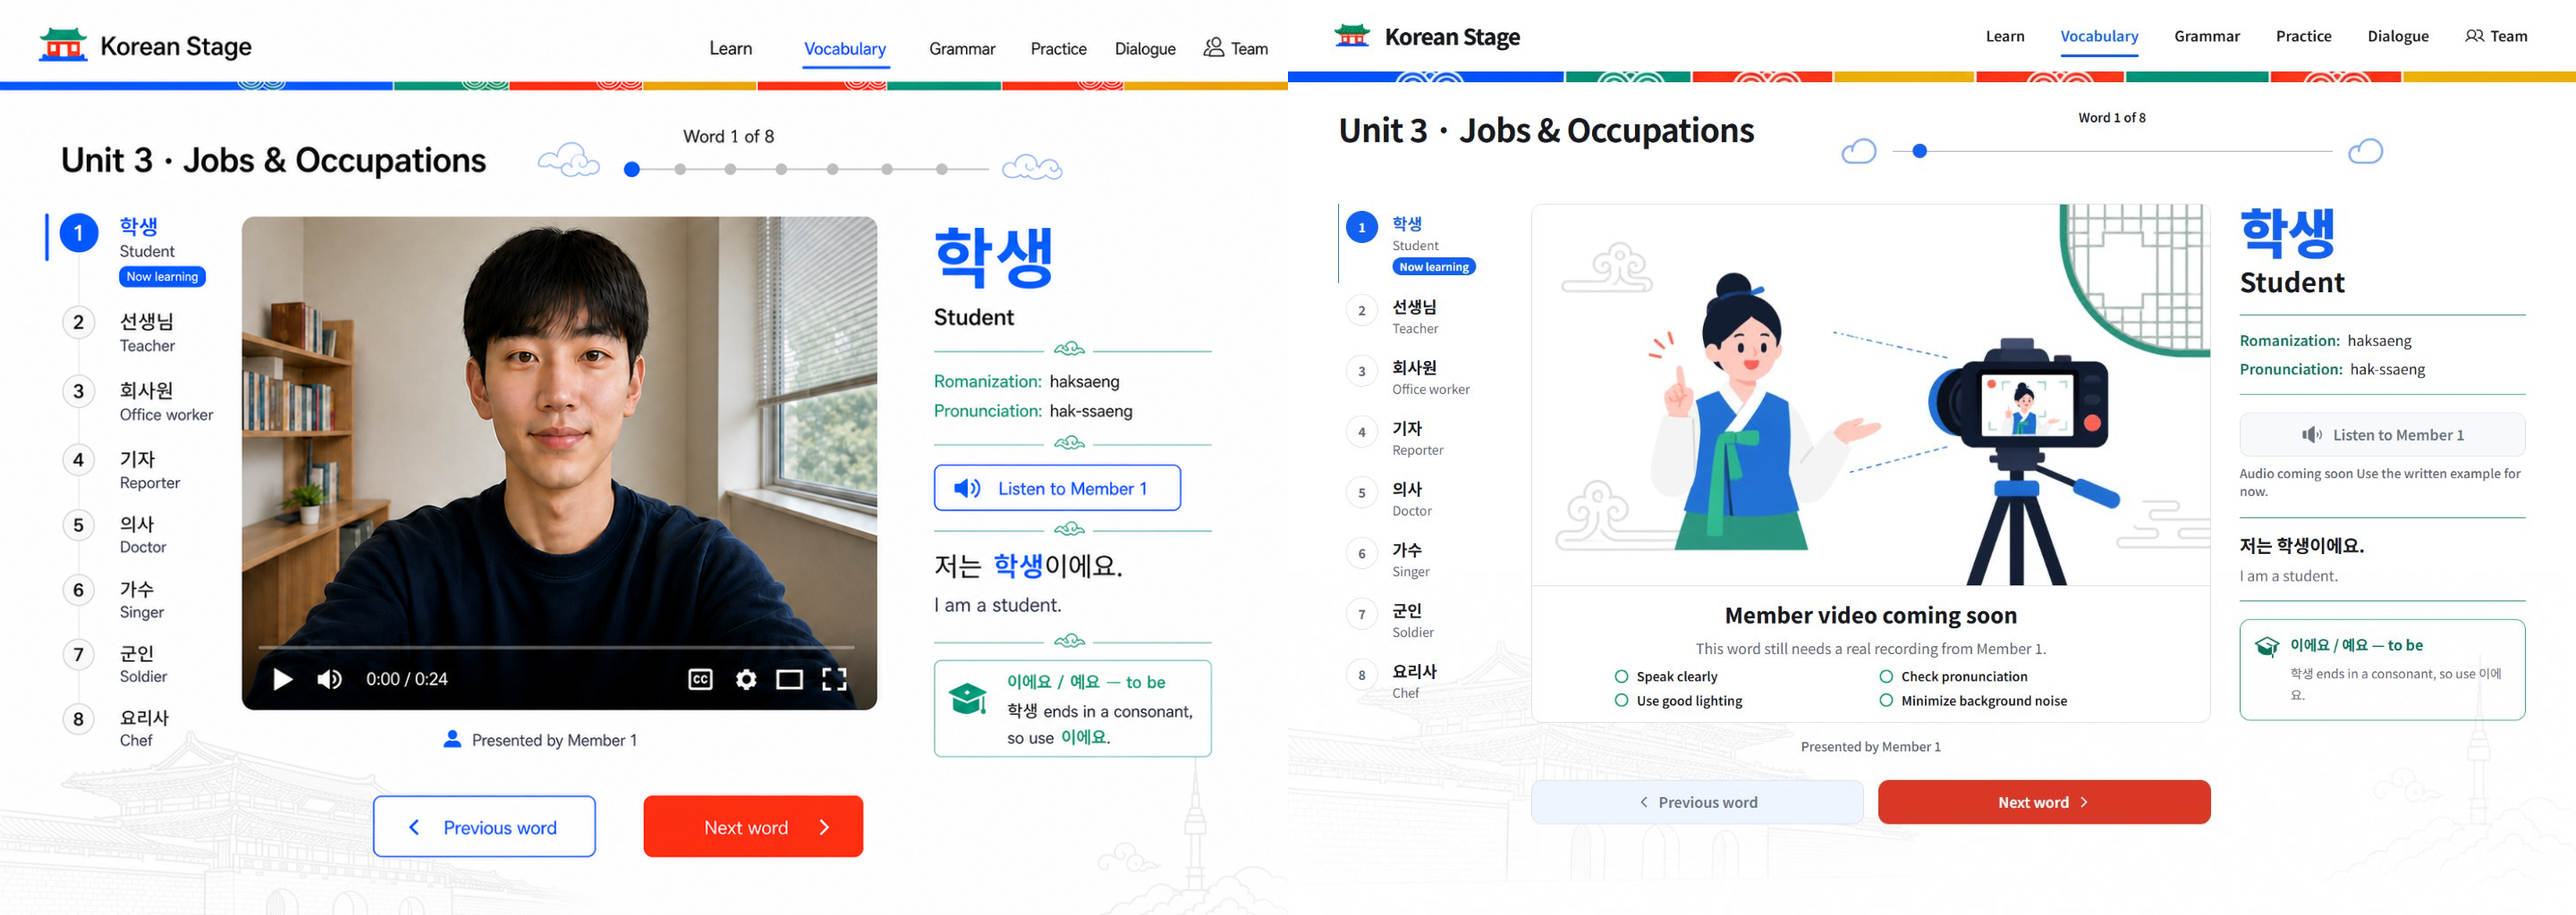
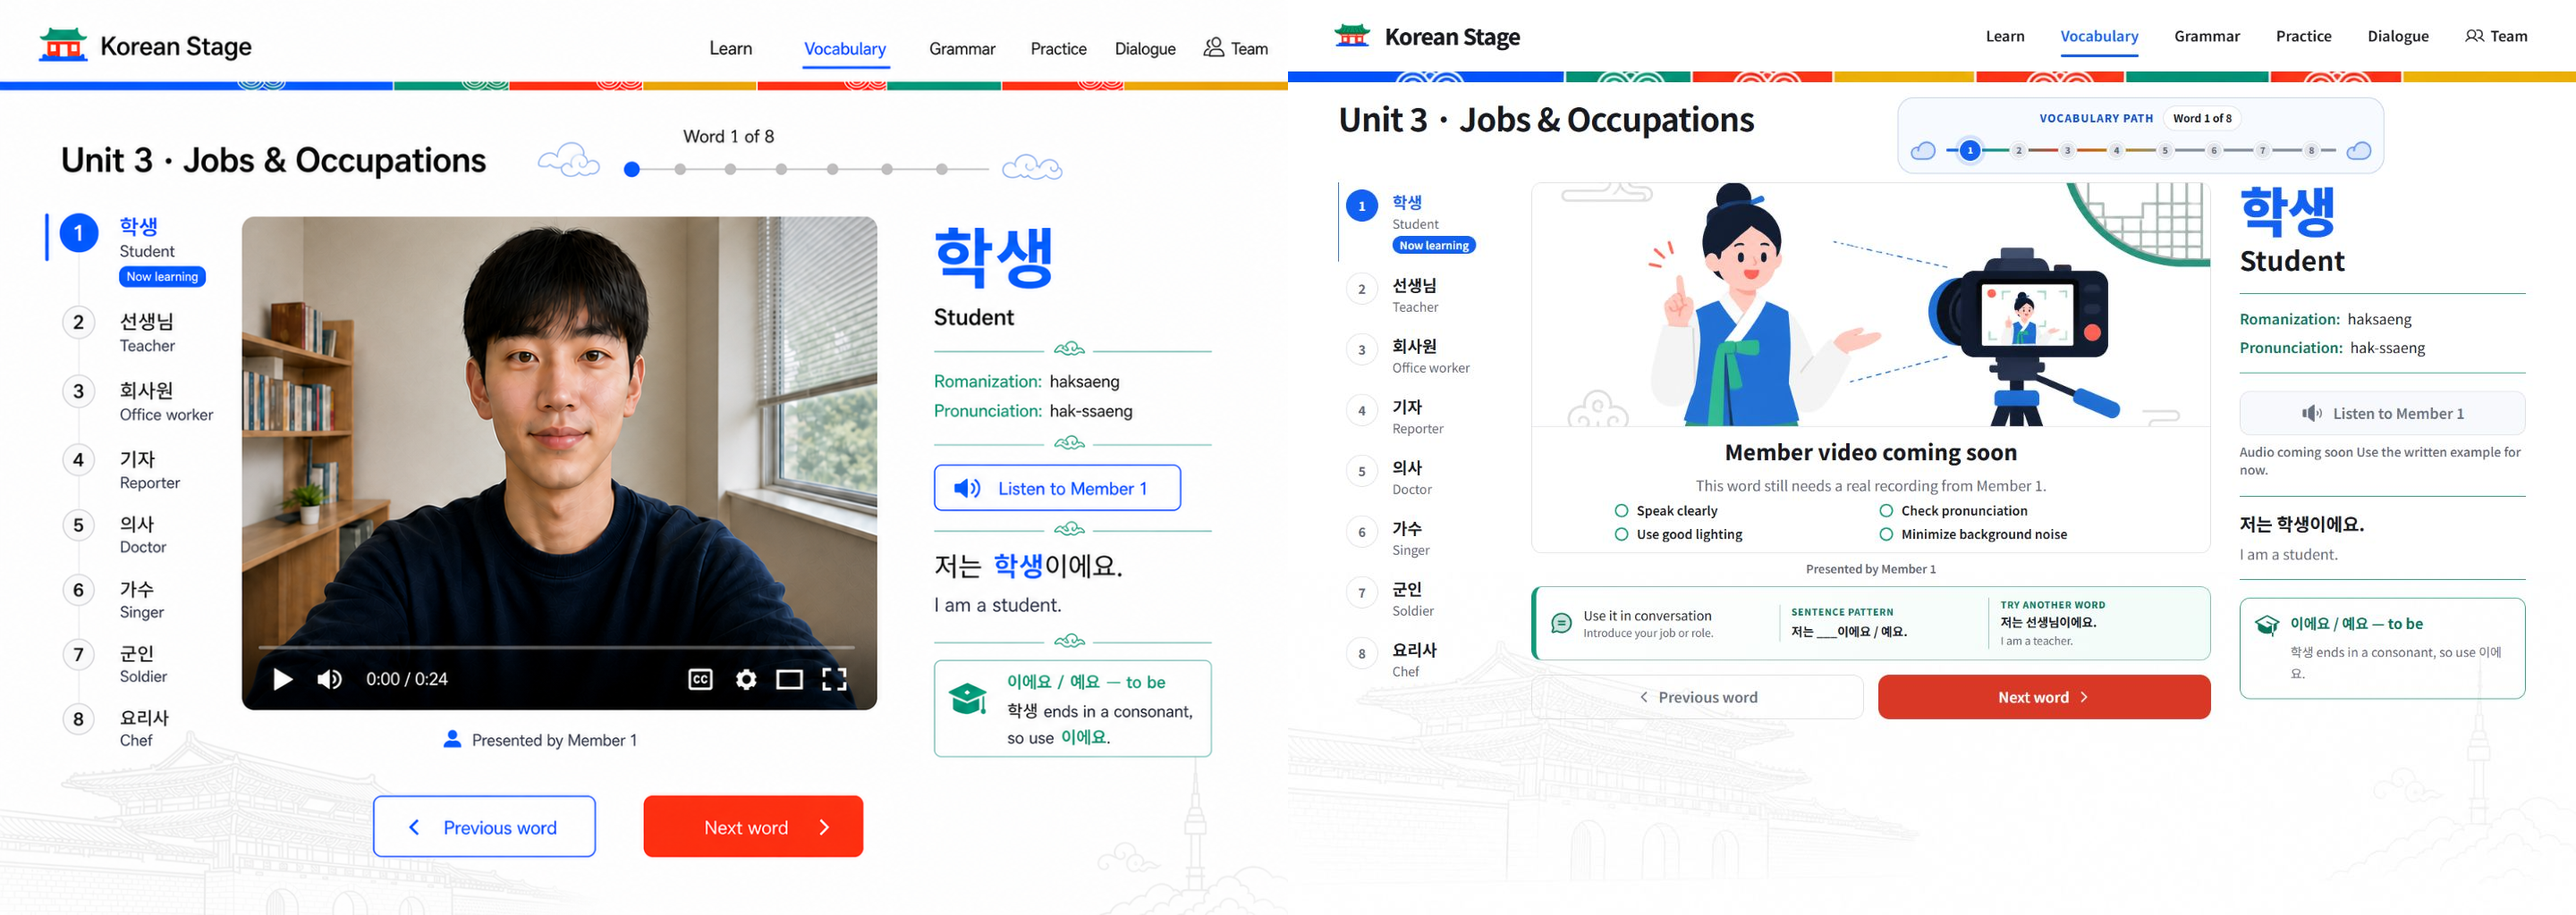
feat: compact vocabulary lesson above the fold

diff --git a/app/src/styles.css b/app/src/styles.css
@@ -286,7 +286,35 @@ body {
 
 .stage-learning-progress {
   width: 100%;
-  max-width: 38rem;
+  max-width: 34rem;
+  border: 1px solid color-mix(in srgb, var(--stage-cobalt) 18%, var(--stage-border));
+  border-radius: 1.15rem;
+  background: color-mix(in srgb, var(--stage-cobalt-soft) 48%, var(--stage-white));
+  padding: 0.55rem 0.8rem 0.65rem;
+}
+
+.stage-learning-progress__label {
+  display: flex;
+  align-items: center;
+  justify-content: center;
+  gap: 0.65rem;
+  margin: 0;
+  font-size: 0.75rem;
+}
+
+.stage-learning-progress__label span {
+  color: var(--color-stage-cobalt-strong);
+  font-weight: 800;
+  letter-spacing: 0.08em;
+  text-transform: uppercase;
+}
+
+.stage-learning-progress__label strong {
+  border: 1px solid var(--stage-border);
+  border-radius: 999px;
+  background: var(--stage-white);
+  color: var(--stage-charcoal);
+  padding: 0.25rem 0.65rem;
 }
 
 .stage-learning-grid {
@@ -297,13 +325,13 @@ body {
   display: grid;
   grid-template-columns: auto minmax(0, 1fr) auto;
   align-items: center;
-  gap: 1rem;
+  gap: 0.65rem;
   margin-top: 0.45rem;
 }
 
 .word-progress-cloud {
   color: var(--stage-cobalt);
-  opacity: 0.5;
+  opacity: 0.62;
 }
 
 .word-progress-markers {
@@ -320,8 +348,9 @@ body {
   position: absolute;
   right: 0;
   left: 0;
-  height: 1px;
-  background: var(--stage-border-strong);
+  height: 3px;
+  border-radius: 999px;
+  background: linear-gradient(90deg, var(--stage-cobalt), var(--stage-jade), var(--stage-vermilion), var(--stage-yellow), var(--stage-border-strong) 58%);
   content: "";
 }
 
@@ -333,20 +362,93 @@ body {
 }
 
 .word-progress-markers span {
-  width: 0.75rem;
-  height: 0.75rem;
+  display: grid;
+  width: 1.25rem;
+  height: 1.25rem;
+  place-items: center;
+  border: 2px solid var(--stage-white);
   border-radius: 50%;
-  background: var(--stage-disabled);
+  background: var(--color-stage-disabled);
+  color: var(--stage-muted);
+  font-size: 0.625rem;
+  font-weight: 800;
+  outline: 1px solid var(--stage-border);
 }
 
 .word-progress-markers .is-complete span {
   background: var(--stage-jade);
+  color: var(--stage-white);
 }
 
 .word-progress-markers .is-active span {
-  width: 1rem;
-  height: 1rem;
+  width: 1.65rem;
+  height: 1.65rem;
   background: var(--stage-cobalt);
+  color: var(--stage-white);
+  outline: 4px solid color-mix(in srgb, var(--stage-cobalt) 16%, transparent);
+}
+
+.stage-media-presenter {
+  margin: 0.45rem 0 0;
+  color: var(--stage-muted);
+  font-size: 0.8rem;
+  font-weight: 600;
+  text-align: center;
+}
+
+.conversation-use-card {
+  display: grid;
+  gap: 0.75rem;
+  margin-top: 0.65rem;
+  border: 1px solid color-mix(in srgb, var(--stage-jade) 52%, var(--stage-border));
+  border-left: 0.35rem solid var(--stage-jade);
+  border-radius: var(--stage-radius);
+  background: linear-gradient(105deg, var(--stage-white), color-mix(in srgb, var(--color-stage-jade-soft) 72%, var(--stage-white)));
+  padding: 0.75rem 0.9rem;
+}
+
+.conversation-use-card__intro {
+  display: flex;
+  align-items: center;
+  gap: 0.65rem;
+  color: var(--color-stage-jade-strong);
+}
+
+.conversation-use-card h2,
+.conversation-use-card p {
+  margin: 0;
+}
+
+.conversation-use-card h2 {
+  color: var(--stage-charcoal);
+  font-size: 0.9rem;
+}
+
+.conversation-use-card p,
+.conversation-use-card small {
+  color: var(--stage-muted);
+  font-size: 0.75rem;
+}
+
+.conversation-use-card__pattern,
+.conversation-use-card__swap {
+  display: grid;
+  gap: 0.12rem;
+}
+
+.conversation-use-card__pattern span,
+.conversation-use-card__swap span {
+  color: var(--color-stage-jade-strong);
+  font-size: 0.65rem;
+  font-weight: 800;
+  letter-spacing: 0.06em;
+  text-transform: uppercase;
+}
+
+.conversation-use-card__pattern strong,
+.conversation-use-card__swap strong {
+  color: var(--stage-charcoal);
+  font-size: 0.85rem;
 }
 
 .member-video--stage video,
@@ -359,11 +461,11 @@ body {
 }
 
 .member-video--stage .coming-soon-copy {
-  padding-block: 0.85rem;
+  padding-block: 0.6rem;
 }
 
 .member-video--stage .coming-soon-copy ul {
-  margin-top: 0.55rem;
+  margin-top: 0.35rem;
 }
 
 .member-video--stage figcaption {
@@ -478,6 +580,26 @@ body {
   .stage-learning-grid {
     grid-template-columns: 11.5rem minmax(0, 1fr) 20rem;
     gap: 2rem;
+  }
+
+  .member-video--stage video,
+  .member-video--stage > div[role="alert"],
+  .member-video--stage .coming-soon-artwork-frame {
+    height: clamp(14rem, 29vh, 17rem);
+    min-height: 0;
+    aspect-ratio: auto;
+  }
+
+  .conversation-use-card {
+    grid-template-columns: 1.05fr 0.95fr 1fr;
+    align-items: center;
+  }
+
+  .conversation-use-card__pattern,
+  .conversation-use-card__swap {
+    min-height: 2.6rem;
+    border-left: 1px solid color-mix(in srgb, var(--stage-jade) 35%, var(--stage-border));
+    padding-left: 0.8rem;
   }
 }
 

diff --git a/app/src/components/VocabularyJourney.tsx b/app/src/components/VocabularyJourney.tsx
@@ -1,4 +1,4 @@
-import { CaretLeft, CaretRight, Cloud, GraduationCap } from '@phosphor-icons/react'
+import { CaretLeft, CaretRight, ChatCircleText, Cloud, GraduationCap } from '@phosphor-icons/react'
 import { useState } from 'react'
 import { course, courseUnits } from '../content/course'
 import type { VocabularyItem } from '../content/types'
@@ -47,6 +47,7 @@ export function VocabularyJourney({ items, initialItemId, progressPath }: Vocabu
   }
 
   const item = items[Math.min(activeIndex, items.length - 1)]
+  const replacementItem = items[(activeIndex + 1) % items.length]
   const member = course.members.find((candidate) => candidate.id === item.ownerId)
   const memberName = member?.name ?? 'Course member'
   const tip = grammarTip(item)
@@ -115,7 +116,7 @@ export function VocabularyJourney({ items, initialItemId, progressPath }: Vocabu
   )
 
   const media = (
-    <div>
+    <div className="stage-media-stack">
       <MemberVideo
         className="member-video--stage"
         key={`${item.id}:${item.video.kind}:${item.video.src ?? 'missing'}`}
@@ -123,7 +124,25 @@ export function VocabularyJourney({ items, initialItemId, progressPath }: Vocabu
         source={item.video}
         transcript={`${item.koreanExample} ${item.englishExample}`}
       />
-      <p className="mt-4 text-center text-sm font-medium text-stage-muted">Presented by {memberName}</p>
+      <p className="stage-media-presenter">Presented by {memberName}</p>
+      <section aria-label="Use it in conversation" className="conversation-use-card">
+        <div className="conversation-use-card__intro">
+          <ChatCircleText aria-hidden="true" size={28} weight="duotone" />
+          <div>
+            <h2>Use it in conversation</h2>
+            <p>Introduce your job or role.</p>
+          </div>
+        </div>
+        <div className="conversation-use-card__pattern">
+          <span>Sentence pattern</span>
+          <strong>저는 ___이에요 / 예요.</strong>
+        </div>
+        <div className="conversation-use-card__swap">
+          <span>Try another word</span>
+          <strong>{replacementItem.koreanExample}</strong>
+          <small>{replacementItem.englishExample}</small>
+        </div>
+      </section>
     </div>
   )
 
@@ -194,7 +213,7 @@ export function VocabularyJourney({ items, initialItemId, progressPath }: Vocabu
 
   const progressMarkers = (
     <div className="word-progress-line">
-      <Cloud aria-hidden="true" className="word-progress-cloud" size={42} weight="regular" />
+      <Cloud aria-hidden="true" className="word-progress-cloud" size={30} weight="duotone" />
       <ol aria-label="Word progress markers" className="word-progress-markers">
         {items.map((word, index) => (
           <li
@@ -203,11 +222,11 @@ export function VocabularyJourney({ items, initialItemId, progressPath }: Vocabu
             className={index === activeIndex ? 'is-active' : index < activeIndex ? 'is-complete' : undefined}
             key={word.id}
           >
-            <span aria-hidden="true" />
+            <span aria-hidden="true">{index + 1}</span>
           </li>
         ))}
       </ol>
-      <Cloud aria-hidden="true" className="word-progress-cloud" size={42} weight="regular" />
+      <Cloud aria-hidden="true" className="word-progress-cloud" size={30} weight="duotone" />
     </div>
   )
 
@@ -218,6 +237,7 @@ export function VocabularyJourney({ items, initialItemId, progressPath }: Vocabu
       heading={`Unit ${unitNumber} · ${unitTitle}`}
       media={media}
       progress={`Word ${activeIndex + 1} of ${items.length}`}
+      progressLabel="Vocabulary path"
       progressMarkers={progressMarkers}
       rail={rail}
     />

diff --git a/app/src/components/LearningShell.tsx b/app/src/components/LearningShell.tsx
@@ -3,6 +3,7 @@ import type { ReactNode } from 'react'
 type LearningShellProps = {
   heading: string
   progress: string
+  progressLabel?: string
   progressMarkers?: ReactNode
   rail: ReactNode
   media: ReactNode
@@ -10,13 +11,16 @@ type LearningShellProps = {
   controls: ReactNode
 }
 
-export function LearningShell({ heading, progress, progressMarkers, rail, media, details, controls }: LearningShellProps) {
+export function LearningShell({ heading, progress, progressLabel = 'Lesson progress', progressMarkers, rail, media, details, controls }: LearningShellProps) {
   return (
-    <section className="stage-learning-shell mx-auto w-full max-w-[1440px] px-5 py-8 sm:px-8 lg:px-14 lg:py-8">
-      <div className="stage-learning-header mb-8 grid gap-4">
+    <section className="stage-learning-shell mx-auto w-full max-w-[1440px] px-5 py-8 sm:px-8 lg:px-14 lg:py-5">
+      <div className="stage-learning-header mb-5 grid gap-4">
         <h1 className="m-0 text-3xl font-bold tracking-tight text-stage-charcoal sm:text-4xl">{heading}</h1>
         <div className="stage-learning-progress" aria-label={progress}>
-          <p className="m-0 text-center text-sm font-semibold text-stage-charcoal">{progress}</p>
+          <p className="stage-learning-progress__label">
+            <span>{progressLabel}</span>
+            <strong>{progress}</strong>
+          </p>
           {progressMarkers}
         </div>
       </div>
@@ -24,7 +28,7 @@ export function LearningShell({ heading, progress, progressMarkers, rail, media,
         <aside aria-label="Ordered vocabulary words" className="stage-learning-rail">{rail}</aside>
         <section aria-label="Member vocabulary video" className="stage-learning-media min-w-0">
           {media}
-          <div className="mt-7">{controls}</div>
+          <div className="mt-4">{controls}</div>
         </section>
         <aside aria-label="Vocabulary learning details" className="stage-learning-details">{details}</aside>
       </div>

diff --git a/app/src/components/VocabularyJourney.test.tsx b/app/src/components/VocabularyJourney.test.tsx
@@ -94,6 +94,22 @@ describe('VocabularyJourney', () => {
     expect(screen.getAllByText('Student').length).toBeGreaterThan(0)
   })
 
+  it('adds a compact conversation-use prompt that advances with each word', async () => {
+    const user = userEvent.setup()
+    render(<VocabularyJourney items={occupationItems} />)
+
+    expect(screen.getByText('Vocabulary path')).toBeVisible()
+    const prompt = screen.getByRole('region', { name: 'Use it in conversation' })
+    expect(within(prompt).getByText('저는 ___이에요 / 예요.')).toBeVisible()
+    expect(within(prompt).getByText('저는 선생님이에요.')).toBeVisible()
+    expect(within(prompt).getByText('I am a teacher.')).toBeVisible()
+
+    await user.click(screen.getByRole('button', { name: 'Next word' }))
+
+    expect(within(prompt).getByText('저는 회사원이에요.')).toBeVisible()
+    expect(within(prompt).getByText('I am an office worker.')).toBeVisible()
+  })
+
   it('keeps all eight ordered bilingual occupations visible in its progress rail', () => {
     unlockThroughDoctor()
     render(<VocabularyJourney items={occupationItems} initialItemId="doctor" />)

diff --git a/design-qa.md b/design-qa.md
@@ -8,6 +8,8 @@ Implemented state: `/learn/unit-3`, word 1 of 8, 1440 x 1024
 
 Combined evidence: `docs/design/vocabulary-side-by-side.png`
 
+Latest compact evidence: `docs/design/implementation-vocab-compact.png`
+
 ## Result
 
 The restored screen matches the approved visual direction: a white canvas, vivid cobalt/vermilion/jade/yellow accents, palace-gate brand mark, segmented Korean pattern band, subtle palace and Namsan line art, ordered bilingual vocabulary rail, central member-video area, detailed learning panel, word progress, and previous/next controls.
@@ -32,7 +34,9 @@ The central panel deliberately shows an honest `Member video coming soon` state 
 - 834 x 1194: no horizontal overflow; vocabulary rail becomes a compact bilingual selector.
 - 390 x 844: no horizontal overflow; mobile header, progress, selector, video state, and detail flow remain readable.
 - Primary interaction: Next word changed the active semantic marker from Word 1 to Word 2; Previous word returned to Word 1.
-- Automated verification: 181 tests passed; TypeScript and ESLint passed; production build passed.
+- Compact desktop fit: the video panel is height-limited, the new conversation-use prompt remains visible, and Next word ends at 759 px in a 1536 x 780 viewport, so it is clickable without scrolling.
+- Progress treatment: the generic long line is replaced by a contained vocabulary-path panel with eight numbered nodes, Korean cloud motifs, and cobalt/jade/vermilion/yellow progression cues.
+- Automated verification: 182 tests passed; TypeScript and ESLint passed; production build passed.
 
 ## Open limitation
 
